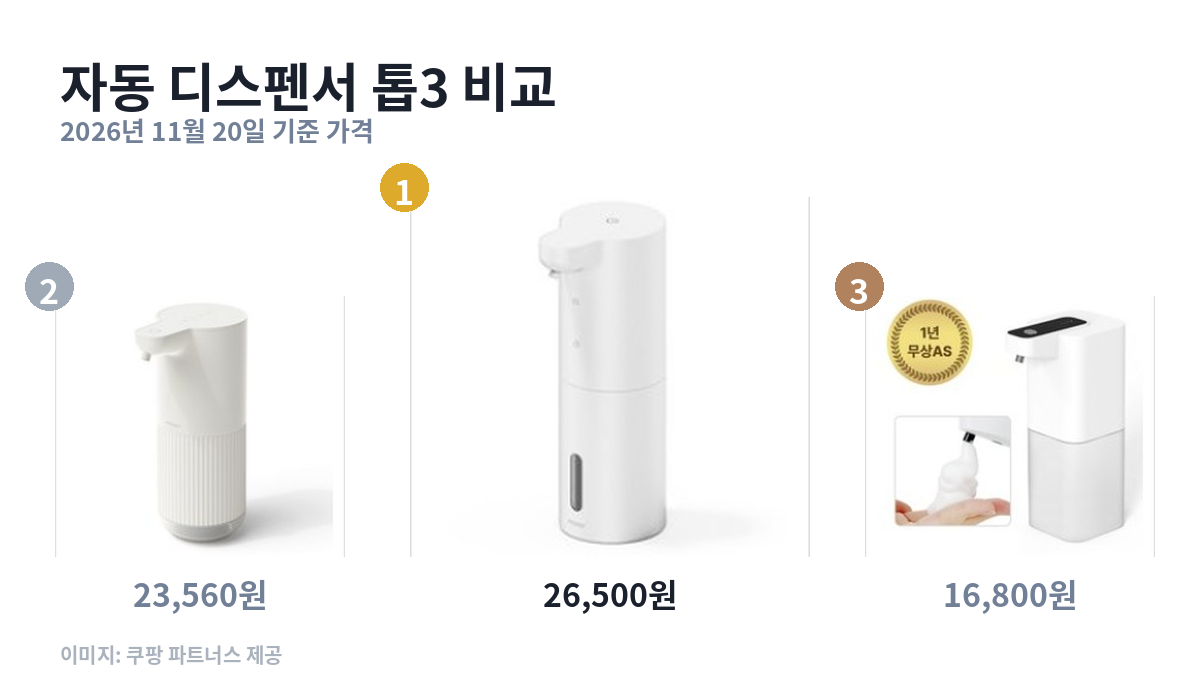
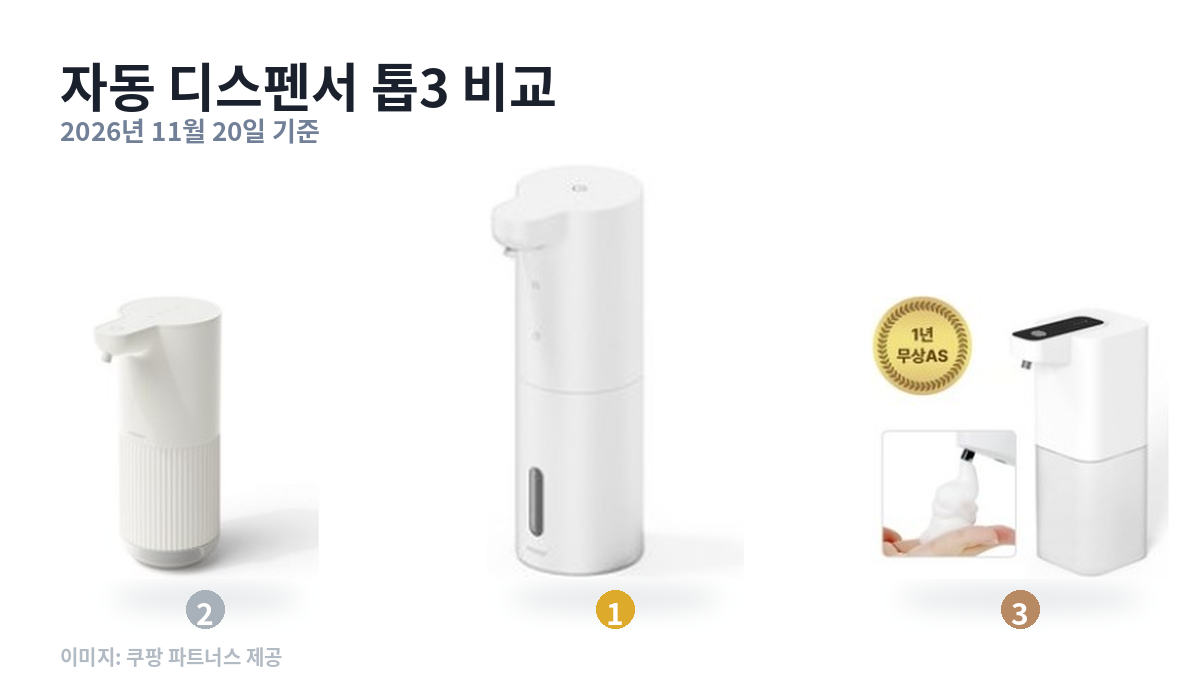
대표 이미지에서 가격을 빼고, 잘린 자국을 지운다
사용자 지시(11/20): "가격도 빼고 우선은 상품만 나오게 하고,
저렇게 자른 티가 안 나게 자연스럽게 보이도록"

자국이 보이던 원인을 실측으로 짚었다.
 ① 배너 바깥 테두리선. 크롭한 조각의 좌우 맨 1열 평균 밝기가 224 이고 안쪽은 254~255 였다.
    이 선 때문에 (가) 여백 제거용 비백색 바운딩박스가 통째로 빗나가고
    (나) 테두리 흰색 비율이 0.52 로 떨어져 흰 배경 판정이 깨졌다. → 좌우 3px 먼저 깎는다.
 ② 배경이 JPEG 라 '흰색'이 248~255 로 흩어져 흰 캔버스 위에 네모가 떠 보였다.
    처음엔 밝기 236 이상을 흰색으로 밀었는데, 그러면 **흰 제품이 같이 지워진다**
    (흰 디스펜서 몸통이 240~252 라 통째로 날아갔다 — 실측).
    → 네 귀퉁이에서 번지는 floodfill(thresh=10)로 **배경에 닿은 흰색만** 지운다.
       제품 안쪽의 밝은 면은 배경과 이어져 있지 않아 남는다.
 ③ 사진·그래픽 배경(배너 전체가 상세컷인 경우)은 흰색으로 녹일 수 없으므로
    모서리를 둥글려 흰 바탕 위에 카드처럼 앉힌다.
 ④ 흰 배경 상품에는 바닥에 옅은 타원 그림자를 깔아 떠 있지 않게 한다.

가격 문구는 대표 이미지에서 전부 뺐다. 순위는 사진 아래 작은 원 하나로만 남긴다
(사진 위에 얹으면 상품을 가린다). 가격은 본문 상품 카드에 날짜와 함께 적혀 있다.

Claude-Session: https://claude.ai/code/session_011yCp6J6rwZWhFQvanGirwe

diff --git a/scripts/make_featured.py b/scripts/make_featured.py
@@ -135,10 +135,15 @@ def crop_shot(im):
     """배너에서 상품 사진 영역만 떼고, 둘레의 흰 여백을 잘라낸다."""
     w, h = im.size
     box = im.crop((0, int(h * SHOT_TOP), w, int(h * SHOT_BOT)))
+    # 배너 바깥 테두리선을 먼저 깎는다. 11/20 실측: 좌우 맨 1열의 평균 밝기가 224 이고
+    # 그 안쪽은 254~255 였다. 이 선을 남기면 ①비백색으로 잡혀 여백 제거가 통째로 빗나가고
+    # ②테두리 흰색 비율이 0.52 로 떨어져 흰 배경 판정이 깨진다. 둘 다 "잘린 자국"으로 보인다.
+    if box.width > 14:
+        box = box.crop((3, 0, box.width - 3, box.height))
     try:
         import numpy as np
         a = np.asarray(box.convert("L"), dtype=float)
-        ys, xs = np.where(a < 243)
+        ys, xs = np.where(a < 246)
         if len(ys) > 50:
             m = 4
             box = box.crop((max(0, xs.min() - m), max(0, ys.min() - m),
@@ -148,51 +153,124 @@ def crop_shot(im):
     return box
 
 
-def podium(title, shots, sub, labels):
-    """1위를 가운데 높은 자리에, 2·3위를 좌우 낮은 자리에. 순위 경쟁처럼 보이게."""
+# 2026-11-20 사용자 지시: "가격도 빼고 우선은 상품만 나오게 하고,
+# 저렇게 자른 티가 안 나게 자연스럽게 보이도록".
+# 잘라 낸 자국이 보이던 이유는 두 가지였다.
+#   ① 배너가 JPEG 라 '흰' 배경이 실제로는 248~253 이어서 흰 캔버스 위에 네모가 떠 보였다.
+#   ② 배너 안쪽 테두리선 1~2px 이 같이 잘려 들어왔다.
+# 그래서 흰 배경 상품컷은 배경을 완전한 흰색으로 밀어 캔버스에 녹이고,
+# 사진·그래픽 배경은 모서리를 둥글려 카드처럼 보이게 한다. 바닥에는 옅은 그림자를 깔아
+# 물건이 떠 있지 않고 서 있는 것처럼 만든다.
+def _arr(im):
+    import numpy as np
+    return np.asarray(im.convert("RGB")).astype("int16")
+
+
+def _white_edge_ratio(im):
+    """테두리 픽셀 중 거의 흰색인 비율 — 흰 배경 상품컷인지 가른다."""
+    try:
+        import numpy as np
+        a = _arr(im)
+        L = a.max(axis=2)
+        b = np.concatenate([L[0, :], L[-1, :], L[:, 0], L[:, -1]])
+        return float((b >= 234).mean())
+    except Exception:
+        return 0.0
+
+
+def _round_corners(im, r=18):
+    """사진 배경은 모서리를 둥글려 흰 바탕 위에 카드처럼 앉힌다."""
+    mask = Image.new("L", im.size, 0)
+    ImageDraw.Draw(mask).rounded_rectangle([0, 0, im.width - 1, im.height - 1],
+                                           radius=r, fill=255)
+    out = Image.new("RGB", im.size, BG)
+    out.paste(im, (0, 0), mask)
+    return out
+
+
+def naturalize(im):
+    """자른 자국을 지운다. (손질한 이미지, 흰배경이었는지)"""
+    wr = _white_edge_ratio(im)
+    if wr >= 0.85:
+        # 밝기 임계로 한 번에 밀면 **흰 제품이 같이 지워진다**(11/20 실측: 흰 디스펜서
+        # 몸통이 240~252 라 236 임계에 통째로 날아갔다). 그래서 네 귀퉁이에서
+        # 번져 나가는 방식으로 **배경에 닿아 있는 흰색만** 지운다. 제품 안쪽의
+        # 밝은 면은 배경과 이어져 있지 않으므로 건드리지 않는다.
+        try:
+            im = im.convert("RGB").copy()
+            w, h = im.size
+            for seed in ((0, 0), (w - 1, 0), (0, h - 1), (w - 1, h - 1),
+                         (w // 2, 0), (w // 2, h - 1)):
+                try:
+                    ImageDraw.floodfill(im, seed, (255, 255, 255), thresh=10)
+                except Exception:
+                    pass
+            if w > 8 and h > 8:
+                im = im.crop((2, 2, w - 2, h - 2))
+        except Exception:
+            pass
+        return im, True
+    return _round_corners(im), False
+
+
+def _floor_shadow(img, cx, base_y, w):
+    """바닥 그림자 — 물건이 서 있는 것처럼 보이게."""
+    try:
+        from PIL import ImageFilter
+        sw, sh = int(w * 0.82), 26
+        if sw < 10:
+            return
+        lay = Image.new("L", (sw + 40, sh + 40), 0)
+        ImageDraw.Draw(lay).ellipse([20, 20, 20 + sw, 20 + sh], fill=46)
+        lay = lay.filter(ImageFilter.GaussianBlur(11))
+        dark = Image.new("RGB", lay.size, (120, 128, 138))
+        img.paste(dark, (cx - lay.width // 2, base_y - 14), lay)
+    except Exception:
+        pass
+
+
+def podium(title, shots, sub, labels=None):
+    """1위를 가운데 크게, 2·3위를 좌우 작게. 상품만 보이게 하고 가격은 넣지 않는다."""
     img = Image.new("RGB", (W, H), BG)
     d = ImageDraw.Draw(img)
-    ft, fs, fr, fp = font(52), font(26), font(34), font(32)
-    for i, ln in enumerate(wrap(d, title, ft, W - 120, lines=1)):
+    ft, fs, fr = font(52), font(26), font(30)
+    for ln in wrap(d, title, ft, W - 120, lines=1):
         d.text((60, 46), ln, font=ft, fill=INK)
     if sub:
         d.text((60, 110), sub, font=fs, fill=SUB)
 
-    base = H - 118                     # 사진이 서는 바닥선(아래에 가격·출처 자리를 둔다)
-    # 1위가 한눈에 커 보여야 순위로 읽힌다. 가운데를 크게, 좌우를 작게.
-    # (가로중심, 최대높이, 최대너비)
+    base = H - 96                      # 사진이 서는 바닥선(아래는 순위 뱃지·출처 자리)
     order = [1, 0, 2][:len(shots)]     # 왼쪽 2위 · 가운데 1위 · 오른쪽 3위
-    slots = [(200, 265, 290), (610, 400, 400), (1010, 265, 290)][:len(shots)]
+    slots = [(205, 285, 300), (615, 415, 410), (1020, 285, 300)][:len(shots)]
     if len(shots) == 1:
-        order, slots = [0], [(600, 400, 430)]
+        order, slots = [0], [(600, 420, 450)]
     elif len(shots) == 2:
-        order, slots = [0, 1], [(420, 400, 400), (830, 290, 310)]
+        order, slots = [0, 1], [(430, 415, 410), (840, 300, 320)]
 
-    rank_bg = [(222, 170, 44), (160, 170, 182), (176, 131, 94)]
+    rank_bg = [(222, 170, 44), (168, 176, 186), (183, 138, 99)]
     for pos, idx in enumerate(order):
         if idx >= len(shots):
             continue
-        im = shots[idx]
+        im, was_white = naturalize(shots[idx])
         cx, maxh, maxw = slots[pos]
         s = min(maxw / im.width, maxh / im.height)
-        w2, h2 = int(im.width * s), int(im.height * s)
+        w2, h2 = max(1, int(im.width * s)), max(1, int(im.height * s))
         y0 = base - h2
+        if was_white:
+            _floor_shadow(img, cx, base, w2)
         img.paste(im.resize((w2, h2), Image.LANCZOS), (cx - w2 // 2, y0))
-        # 순위 뱃지
-        r = 24
-        bx, by = cx - w2 // 2 - 6, y0 - 10
-        d.ellipse([bx - r, by - r, bx + r, by + r], fill=rank_bg[min(idx, 2)])
+        # 순위는 사진 아래 가운데에 작은 원으로. 사진 위에 얹으면 상품을 가린다.
+        r = 19
+        by = base + 30
+        d.ellipse([cx - r, by - r, cx + r, by + r], fill=rank_bg[min(idx, 2)])
         n = str(idx + 1)
-        tw = d.textlength(n, font=fr)
-        d.text((bx - tw / 2, by - 22), n, font=fr, fill=(255, 255, 255))
-        if idx < len(labels) and labels[idx]:
-            lw = d.textlength(labels[idx], font=fp)
-            d.text((cx - lw / 2, base + 12), labels[idx], font=fp,
-                   fill=INK if idx == 0 else SUB)
-    # 출처는 왼쪽 아래에. 오른쪽에 두면 3위 가격과 겹친다(11/20 실측).
+        d.text((cx - d.textlength(n, font=fr) / 2, by - 19), n, font=fr,
+               fill=(255, 255, 255))
     fsrc = font(20)
-    d.text((60, H - 36), "이미지: 쿠팡 파트너스 제공", font=fsrc, fill=(170, 178, 189))
+    d.text((60, H - 34), "이미지: 쿠팡 파트너스 제공", font=fsrc, fill=(178, 186, 196))
     return img
+
+
 
 
 def resolve(entry):
@@ -232,18 +310,19 @@ def main():
             print(f"  ✗ {disp}: 쓸 수 있는 상품 사진이 하나도 없다 — 대표 이미지를 만들지 않는다")
             continue
         today = dt.date.today()
-        asof = f"{today.year}년 {today.month}월 {today.day}일 기준 가격"
+        # 2026-11-20 사용자 지시로 대표 이미지에서 가격을 뺐다. 상품만 보이게 한다.
+        # 가격은 본문 상품 카드에 날짜와 함께 적혀 있다.
+        asof = f"{today.year}년 {today.month}월 {today.day}일 기준"
         shots = [im for _, im in pairs]
-        labels = [(f"{int(e['price']):,}원" if e.get("price") else "") for e, _ in pairs]
 
         p1 = os.path.join(OUT, base + ".png")
-        podium(f"{disp}, 지금 얼마에 살 수 있나", shots[:1], asof, labels[:1]).save(p1)
+        podium(f"{disp}, 지금 얼마에 살 수 있나", shots[:1], asof).save(p1)
         made.append((base, p1))
         print(f"  ✓ {p1}  (상품 사진 1장)")
 
         if len(shots) >= 2:
             p2 = os.path.join(OUT, base + "-top3.png")
-            podium(f"{disp} 톱3 비교", shots[:3], asof, labels[:3]).save(p2)
+            podium(f"{disp} 톱3 비교", shots[:3], asof).save(p2)
             made.append((base + "-top3", p2))
             print(f"  ✓ {p2}  (상품 사진 {len(shots[:3])}장)")
 
